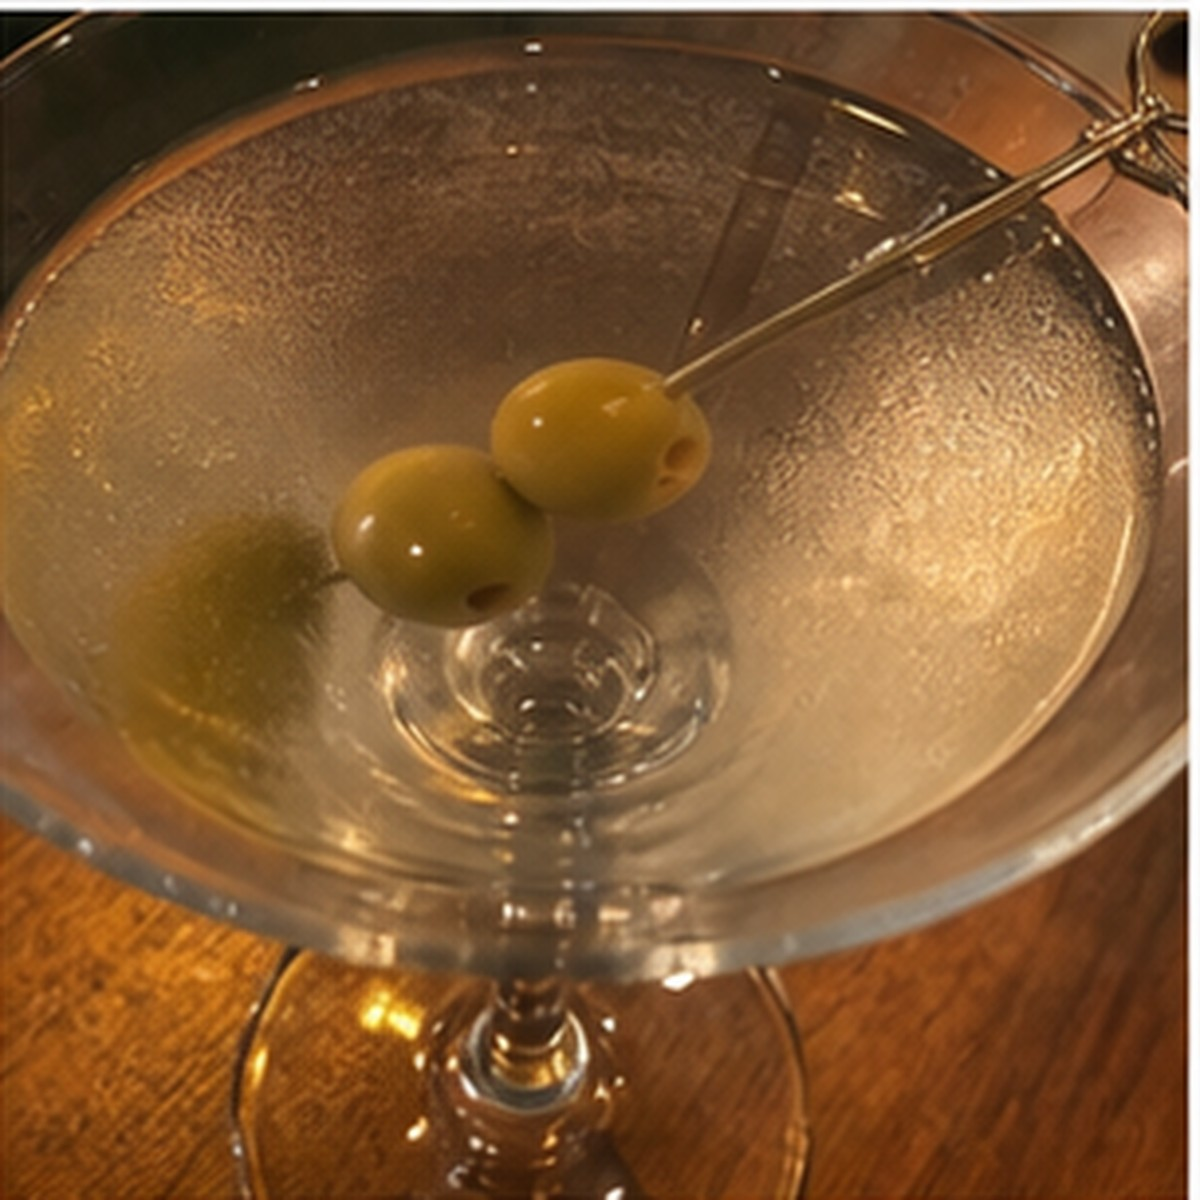
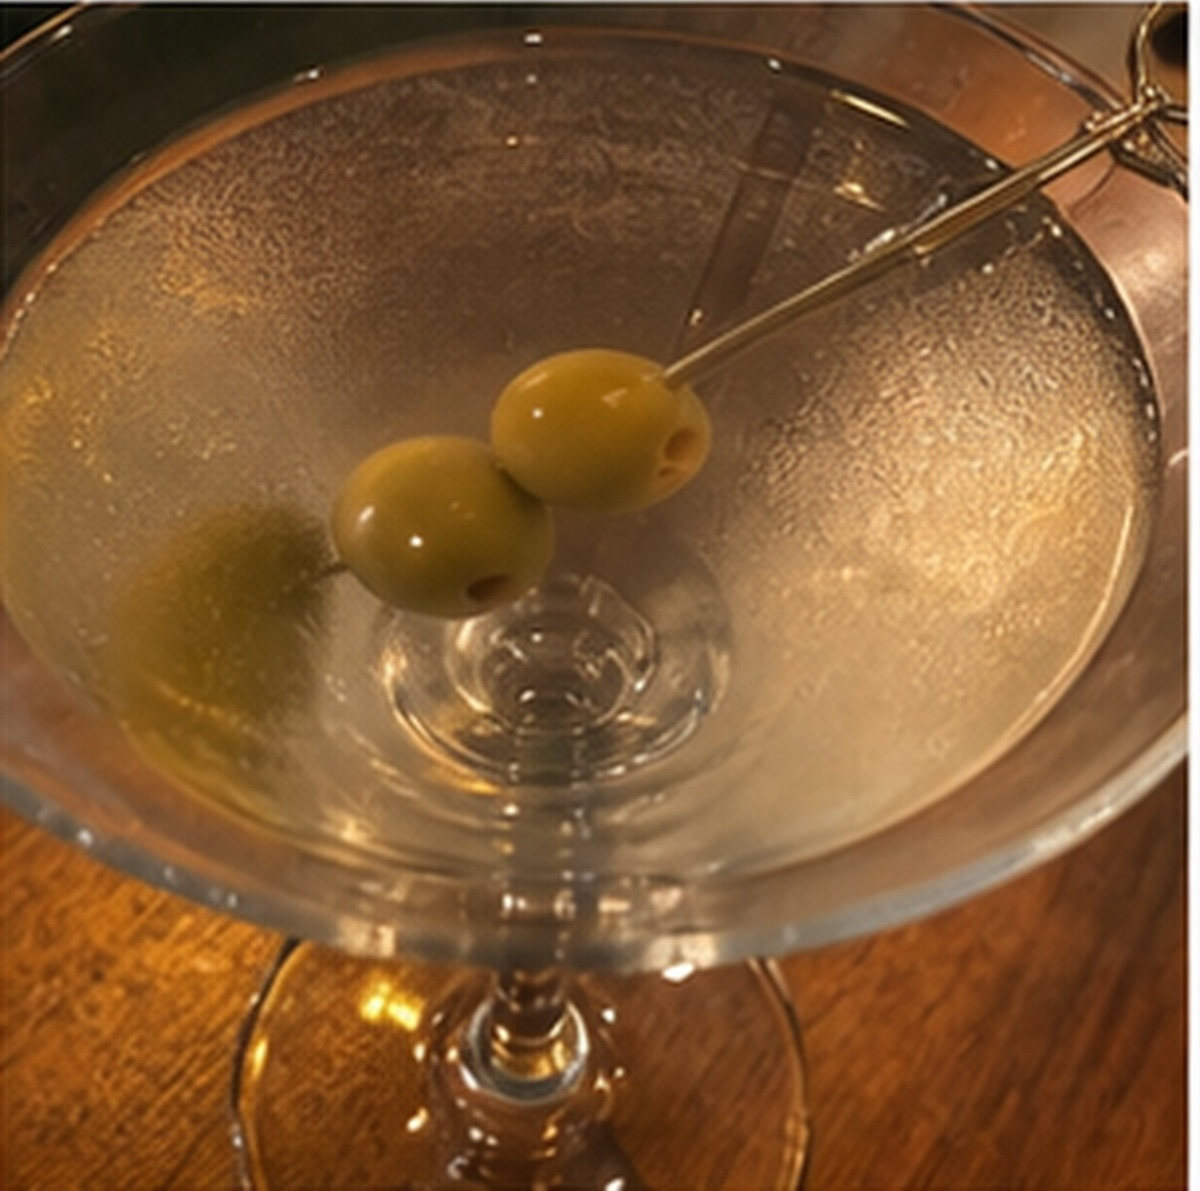
chore: refresh App Store screenshots, remove dev pin gallery
- Nine 1242x2688 slides regenerated from the reseeded dev world (stellavale,
  Lower Lonsdale venues): feed, review, comments, map, regulars, profile,
  passport, golden glass, martini index. The design script now reads raw
  captures from scripts/screenshots/output/raw instead of the Desktop.
- Seed assets had a white letterbox bar baked into an edge (the strip that
  showed above every review photo); cropped out of all 16 images.
- Removed the dev-only pin gallery screen and its Explore map button.

diff --git a/components/explore/ExploreMap.tsx b/components/explore/ExploreMap.tsx
@@ -17,7 +17,6 @@ import {
   ActivityIndicator,
 } from "react-native";
 import BottomSheet, { BottomSheetView } from "@gorhom/bottom-sheet";
-import { useRouter } from "expo-router";
 import { useSafeAreaInsets } from "react-native-safe-area-context";
 import MapView from "@/components/map/ClusteredMap";
 import {
@@ -170,7 +169,6 @@ function ExploreMap({
   searchVisible,
 }: ExploreMapProps) {
   const styles = useStyles();
-  const router = useRouter();
   const { isDark, spacing } = useTheme();
   const { profile } = useProfile();
   const { requireMembership } = useMembership();
@@ -816,16 +814,6 @@ function ExploreMap({
             <ActivityIndicator size="small" />
           </View>
         )}
-        {__DEV__ ? (
-          <TouchableOpacity
-            style={styles.devPinGalleryButton}
-            onPress={() => router.push("/pin-gallery")}
-            accessibilityRole="button"
-            accessibilityLabel="Open pin gallery"
-          >
-            <Text style={styles.devPinGalleryText}>Pins</Text>
-          </TouchableOpacity>
-        ) : null}
         {selectedLocation ? (
           <View
             pointerEvents="none"
@@ -961,20 +949,6 @@ const useStyles = makeStyles((t) => ({
     width: 40,
     height: 4,
     backgroundColor: t.colors.borderStrong,
-  },
-  devPinGalleryButton: {
-    position: "absolute" as const,
-    top: t.spacing.sm,
-    right: t.spacing.sm,
-    paddingVertical: t.spacing.xs,
-    paddingHorizontal: t.spacing.md,
-    borderRadius: t.radius.pill,
-    backgroundColor: t.colors.surfaceInk,
-    ...t.elevation.raised,
-  },
-  devPinGalleryText: {
-    ...t.typography.label,
-    color: t.colors.onInk,
   },
   sheetTabBarUnderlay: {
     position: "absolute" as const,

diff --git a/app/(tabs)/(home,discover,profile)/_layout.tsx b/app/(tabs)/(home,discover,profile)/_layout.tsx
@@ -49,7 +49,6 @@ const TITLES: Record<string, string> = {
   "location-verification-info": "Business verification",
   "location-claim": "Verify this place",
   "golden-glass-info": "Golden Glass",
-  "pin-gallery": "Pin gallery (dev)",
   terms: "Terms of Service",
   "delete-account": "Delete Account",
 };

diff --git a/scripts/create_app_store_designs.py b/scripts/create_app_store_designs.py
@@ -8,7 +8,7 @@ ROOT = Path(__file__).resolve().parents[1]
 OUT = ROOT / "app-store-designs"
 W, H = 1242, 2688
 
-SCREENSHOTS = Path("/Users/owenhope/Desktop")
+SCREENSHOTS = ROOT / "scripts" / "screenshots" / "output" / "raw"
 FONT_HEADLINE = "/System/Library/Fonts/Supplemental/Arial Black.ttf"
 FONT_SUBHEAD = "/System/Library/Fonts/SFNS.ttf"
 FONT_LABEL = "/System/Library/Fonts/SFNS.ttf"
@@ -16,8 +16,38 @@ FONT_LABEL = "/System/Library/Fonts/SFNS.ttf"
 
 DESIGNS = [
     {
+        "slug": "feed",
+        "source": "01-feed.png",
+        "headline": "REVIEW",
+        "subhead": "Rate it. Share it. Repeat.",
+        "background": "#6B50A9",
+        "ink": "#FFFFFF",
+        "sub_ink": "#FFFFFF",
+        "accent": "#BFA7F2",
+    },
+    {
+        "slug": "review-detail",
+        "source": "02-review.png",
+        "headline": "RATE",
+        "subhead": "Taste and presentation, olive by olive.",
+        "background": "#6B50A9",
+        "ink": "#FFFFFF",
+        "sub_ink": "#FFFFFF",
+        "accent": "#BFA7F2",
+    },
+    {
+        "slug": "comments",
+        "source": "03-comments.png",
+        "headline": "TALK",
+        "subhead": "Compare notes with the club.",
+        "background": "#6B50A9",
+        "ink": "#FFFFFF",
+        "sub_ink": "#FFFFFF",
+        "accent": "#BFA7F2",
+    },
+    {
         "slug": "explore-map",
-        "source": "Simulator Screenshot - Tini First Install - 2026-08-30 at 18.27.01.png",
+        "source": "04-map.png",
         "headline": "DISCOVER",
         "subhead": "Explore nearby pours.",
         "background": "#6B50A9",
@@ -26,8 +56,8 @@ DESIGNS = [
         "accent": "#BFA7F2",
     },
     {
-        "slug": "venue-map",
-        "source": "Simulator Screenshot - Tini First Install - 2026-08-30 at 18.28.53.png",
+        "slug": "regulars",
+        "source": "05-regulars.png",
         "headline": "REGULARS",
         "subhead": "See where locals return.",
         "background": "#6B50A9",
@@ -37,7 +67,7 @@ DESIGNS = [
     },
     {
         "slug": "profile",
-        "source": "Simulator Screenshot - Tini First Install - 2026-08-30 at 18.28.28.png",
+        "source": "06-profile.png",
         "headline": "HISTORY",
         "subhead": "Your pours, remembered.",
         "background": "#6B50A9",
@@ -46,10 +76,10 @@ DESIGNS = [
         "accent": "#BFA7F2",
     },
     {
-        "slug": "martini-index",
-        "source": "Simulator Screenshot - Tini First Install - 2026-08-30 at 18.28.05.png",
-        "headline": "LEARN",
-        "subhead": "Know your classics.",
+        "slug": "passport",
+        "source": "07-passport.png",
+        "headline": "PASSPORT",
+        "subhead": "Earn stamps. Climb the ranks.",
         "background": "#6B50A9",
         "ink": "#FFFFFF",
         "sub_ink": "#FFFFFF",
@@ -57,7 +87,7 @@ DESIGNS = [
     },
     {
         "slug": "golden-glass",
-        "source": "Simulator Screenshot - Tini First Install - 2026-08-30 at 18.39.50.png",
+        "source": "08-golden-glass.png",
         "headline": "TOP SPOTS",
         "subhead": "Vancouver’s best martinis.",
         "background": "#6B50A9",
@@ -66,10 +96,10 @@ DESIGNS = [
         "accent": "#BFA7F2",
     },
     {
-        "slug": "feed",
-        "source": "Simulator Screenshot - Tini First Install - 2026-08-30 at 18.27.58.png",
-        "headline": "REVIEW",
-        "subhead": "Rate it. Share it. Repeat.",
+        "slug": "martini-index",
+        "source": "09-index.png",
+        "headline": "LEARN",
+        "subhead": "Know your classics.",
         "background": "#6B50A9",
         "ink": "#FFFFFF",
         "sub_ink": "#FFFFFF",
